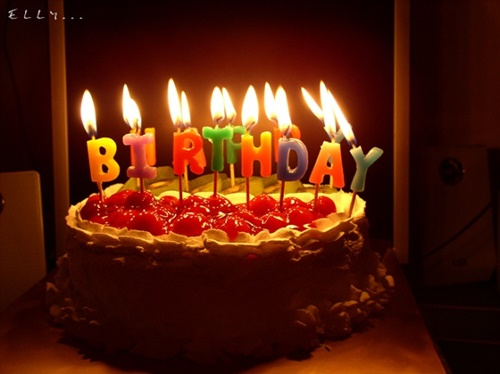
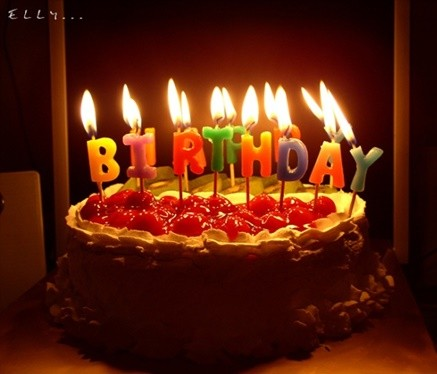
cmt12

diff --git a/game.js b/game.js
@@ -270,19 +270,28 @@ class Game {
         this.blowCakeBtn = document.getElementById('blow-cake-btn');
         this.cakeGrantedMsg = document.getElementById('cake-granted-msg');
         this.closeCakeBtn = document.getElementById('close-cake-btn');
+        this.candleAmbientGlow = document.getElementById('candle-ambient-glow');
+        this.screenFlashOverlay = document.getElementById('screen-flash-overlay');
 
         // Cấu hình các thẻ cho Màn Thổi Bánh Sinh Nhật (4 người ngồi đằng sau cái bánh)
         // Bố cục:
         // 0 1 0 1 0  -> Hàng 1: person2, person3
         // 1 0 0 0 1  -> Hàng 2: person1, person4
-        // 0 0 1 0 0  -> Hàng 3: cakeBefore (bánh ở giữa phía trước)
+        // 0 0 1 0 0  -> Hàng 3: cake (bánh ở giữa phía trước)
         this.cakeScreenConfig = {
-            person1: 'assets/card3.jpg',    // Người 1 (Hàng 2, Cột 1 - Ngoài cùng bên trái)
-            person2: 'assets/card4.jpg',    // Người 2 (Hàng 1, Cột 2 - Ở giữa bên trái)
-            person3: 'assets/card5.jpg',    // Người 3 (Hàng 1, Cột 4 - Ở giữa bên phải)
-            person4: 'assets/card6.jpg',    // Người 4 (Hàng 2, Cột 5 - Ngoài cùng bên phải)
-            cakeBefore: 'assets/card12.jpg', // Bánh sinh nhật LÚC CHƯA THỔI (Hàng 3, Cột 3)
-            cakeAfter: 'assets/card13.jpg'   // Bánh sinh nhật SAU KHI THỔI
+            // Trước khi thổi:
+            person1Before: 'assets/card3.jpg',    // Người 1 (Hàng 2, Cột 1 - Ngoài cùng bên trái)
+            person2Before: 'assets/card4.jpg',    // Người 2 (Hàng 1, Cột 2 - Ở giữa bên trái)
+            person3Before: 'assets/card5.jpg',    // Người 3 (Hàng 1, Cột 4 - Ở giữa bên phải)
+            person4Before: 'assets/card6.jpg',    // Người 4 (Hàng 2, Cột 5 - Ngoài cùng bên phải)
+            cakeBefore: 'assets/card12.jpg',      // Bánh sinh nhật LÚC CHƯA THỔI (Hàng 3, Cột 3)
+
+            // Sau khi thổi:
+            person1After: 'assets/card17.jpg',    // Người 1 đổi thành card17
+            person2After: 'assets/card15.jpg',    // Người 2 đổi thành card15
+            person3After: 'assets/card14.jpg',    // Người 3 đổi thành card14
+            person4After: 'assets/card18.jpg',    // Người 4 đổi thành card18
+            cakeAfter: 'assets/card13.jpg'        // Bánh sinh nhật đổi thành card13
         };
         this.cakeBlown = false;
 
@@ -1072,7 +1081,7 @@ class Game {
     openBirthdaySurprise() {
         if (!this.birthdayModal) return;
         this.victoryModal.classList.add('hidden');
-        this.birthdayModal.classList.remove('hidden');
+        this.birthdayModal.classList.remove('hidden', 'cake-step-active', 'cake-blown-dark');
 
         this._isUnwrapping = false;
 
@@ -1172,6 +1181,9 @@ class Game {
         if (this.bdayCardStep) this.bdayCardStep.classList.add('hidden');
         if (this.bdayCakeStep) {
             this.bdayCakeStep.classList.remove('hidden');
+            if (this.birthdayModal) {
+                this.birthdayModal.classList.add('cake-step-active');
+            }
             this.resetCakeStep();
         }
     }
@@ -1181,13 +1193,20 @@ class Game {
         if (this.cakeCenterFlame) {
             this.cakeCenterFlame.classList.remove('extinguished');
         }
+        if (this.candleAmbientGlow) {
+            this.candleAmbientGlow.classList.remove('extinguished');
+        }
+        if (this.birthdayModal) {
+            this.birthdayModal.classList.add('cake-step-active');
+            this.birthdayModal.classList.remove('cake-blown-dark');
+        }
         if (this.cakeImgCenter) {
             this.cakeImgCenter.src = this.cakeScreenConfig.cakeBefore;
             this.cakeImgCenter.style.opacity = '1';
             this.cakeImgCenter.style.transform = 'none';
         }
         if (this.blowCakeBtn) {
-            this.blowCakeBtn.textContent = 'push it';
+            this.blowCakeBtn.textContent = 'thổi nến';
             this.blowCakeBtn.style.display = 'inline-block';
         }
         if (this.cakeGrantedMsg) {
@@ -1198,10 +1217,10 @@ class Game {
         const imgP2 = document.getElementById('cake-img-p2');
         const imgP3 = document.getElementById('cake-img-p3');
         const imgP4 = document.getElementById('cake-img-p4');
-        if (imgP1) imgP1.src = this.cakeScreenConfig.person1;
-        if (imgP2) imgP2.src = this.cakeScreenConfig.person2;
-        if (imgP3) imgP3.src = this.cakeScreenConfig.person3;
-        if (imgP4) imgP4.src = this.cakeScreenConfig.person4;
+        if (imgP1) { imgP1.src = this.cakeScreenConfig.person1Before; imgP1.style.opacity = '1'; imgP1.style.transform = 'none'; }
+        if (imgP2) { imgP2.src = this.cakeScreenConfig.person2Before; imgP2.style.opacity = '1'; imgP2.style.transform = 'none'; }
+        if (imgP3) { imgP3.src = this.cakeScreenConfig.person3Before; imgP3.style.opacity = '1'; imgP3.style.transform = 'none'; }
+        if (imgP4) { imgP4.src = this.cakeScreenConfig.person4Before; imgP4.style.opacity = '1'; imgP4.style.transform = 'none'; }
     }
 
     blowCake() {
@@ -1211,32 +1230,61 @@ class Game {
         // Âm thanh thổi nến
         this.sound.playBlowCandle();
 
-        // Tắt ngọn lửa
+        // 1. Tắt ngọn lửa
         if (this.cakeCenterFlame) {
             this.cakeCenterFlame.classList.add('extinguished');
         }
 
-        // Đổi ảnh bánh sinh nhật sang ảnh mới với hiệu ứng lật mượt mà
-        if (this.cakeImgCenter) {
-            this.cakeImgCenter.style.transition = 'opacity 0.25s ease, transform 0.25s ease';
-            this.cakeImgCenter.style.opacity = '0';
-            this.cakeImgCenter.style.transform = 'scale(0.85) rotate(4deg)';
-
-            setTimeout(() => {
-                this.cakeImgCenter.src = this.cakeScreenConfig.cakeAfter;
-                this.cakeImgCenter.style.opacity = '1';
-                this.cakeImgCenter.style.transform = 'scale(1) rotate(0deg)';
-            }, 250);
+        // 2. Tắt vùng sáng tròn xung quanh bánh
+        if (this.candleAmbientGlow) {
+            this.candleAmbientGlow.classList.add('extinguished');
         }
+
+        // 3. Nháy màn một cái (screen flash) rồi chuyển về nền đen
+        if (this.screenFlashOverlay) {
+            this.screenFlashOverlay.classList.remove('flashing');
+            void this.screenFlashOverlay.offsetWidth;
+            this.screenFlashOverlay.classList.add('flashing');
+        }
+        if (this.birthdayModal) {
+            this.birthdayModal.classList.add('cake-blown-dark');
+        }
+
+        // Đổi ảnh tất cả các thẻ (4 người + 1 bánh) sang ảnh mới với hiệu ứng lật mượt mà
+        const cardsToSwap = [
+            { img: this.cakeImgCenter, newSrc: this.cakeScreenConfig.cakeAfter, rot: 4 },
+            { img: document.getElementById('cake-img-p1'), newSrc: this.cakeScreenConfig.person1After, rot: 3 },
+            { img: document.getElementById('cake-img-p2'), newSrc: this.cakeScreenConfig.person2After, rot: -3 },
+            { img: document.getElementById('cake-img-p3'), newSrc: this.cakeScreenConfig.person3After, rot: 3 },
+            { img: document.getElementById('cake-img-p4'), newSrc: this.cakeScreenConfig.person4After, rot: -3 }
+        ];
+
+        cardsToSwap.forEach(item => {
+            if (item.img) {
+                item.img.style.transition = 'opacity 0.25s ease, transform 0.25s ease';
+                item.img.style.opacity = '0';
+                item.img.style.transform = `scale(0.85) rotate(${item.rot}deg)`;
+            }
+        });
+
+        setTimeout(() => {
+            cardsToSwap.forEach(item => {
+                if (item.img) {
+                    item.img.src = item.newSrc;
+                    item.img.style.opacity = '1';
+                    item.img.style.transform = 'scale(1) rotate(0deg)';
+                }
+            });
+        }, 250);
 
         // Hiện thông điệp ước nguyện
         if (this.cakeGrantedMsg) {
             this.cakeGrantedMsg.classList.remove('hidden');
         }
 
-        // Đổi nút thành "Tiếp Tục 🎯" để người dùng bấm quay lại chơi
+        // Đổi nút thành "tiếp tục" để người dùng bấm quay lại chơi
         if (this.blowCakeBtn) {
-            this.blowCakeBtn.textContent = 'Tiếp Tục 🎯';
+            this.blowCakeBtn.textContent = 'tiếp tục';
         }
     }
 
@@ -1268,7 +1316,13 @@ class Game {
     }
 
     closeBirthdaySurprise() {
-        if (this.birthdayModal) this.birthdayModal.classList.add('hidden');
+        if (this.birthdayModal) {
+            this.birthdayModal.classList.add('hidden');
+            this.birthdayModal.classList.remove('cake-step-active', 'cake-blown-dark');
+        }
+        if (this.candleAmbientGlow) {
+            this.candleAmbientGlow.classList.remove('extinguished');
+        }
         if (this.victoryModal) this.victoryModal.classList.remove('hidden');
         if (this.typewriterTimer) {
             clearInterval(this.typewriterTimer);

diff --git a/style.css b/style.css
@@ -334,6 +334,43 @@ html, body {
     z-index: 100;
     overflow-y: auto;
     padding: 16px;
+    transition: background 0.45s ease;
+}
+
+/* Khi ở màn hình thổi bánh: nền đen huyền ảo làm nổi bật nến và bánh */
+#birthday-modal.cake-step-active {
+    background: #000000 !important;
+}
+
+/* Khi thổi tắt nến: giữ trọn vẹn nền đen tuyền */
+#birthday-modal.cake-blown-dark {
+    background: #000000 !important;
+}
+
+/* Lớp chớp nháy toàn màn hình (Screen flash) khi thổi nến */
+.screen-flash-overlay {
+    position: fixed;
+    inset: 0;
+    background: #ffffff;
+    opacity: 0;
+    pointer-events: none;
+    z-index: 9999;
+}
+
+.screen-flash-overlay.flashing {
+    animation: screenFlashAnim 0.38s ease-out forwards;
+}
+
+@keyframes screenFlashAnim {
+    0% {
+        opacity: 0;
+    }
+    18% {
+        opacity: 0.96;
+    }
+    100% {
+        opacity: 0;
+    }
 }
 
 .bday-decorations {
@@ -702,10 +739,42 @@ html, body {
     flex-direction: column;
     align-items: center;
     justify-content: center;
-    padding: 0;
+    padding: 16px 8px 52px 8px;
     margin: auto;
     width: auto;
     max-width: 100%;
+}
+
+/* Vùng sáng tròn ấm áp xung quanh bánh khi đang có nến */
+.candle-ambient-glow {
+    position: absolute;
+    top: 88%;
+    left: 50%;
+    transform: translate(-50%, -50%);
+    width: 440px;
+    height: 440px;
+    border-radius: 50%;
+    background: radial-gradient(circle, rgba(251, 191, 36, 0.44) 0%, rgba(245, 158, 11, 0.22) 34%, rgba(245, 158, 11, 0.08) 56%, transparent 75%);
+    pointer-events: none;
+    z-index: 0;
+    animation: candleAmbientPulse 1.8s ease-in-out infinite alternate;
+    transition: opacity 0.35s ease, transform 0.35s ease;
+}
+
+@keyframes candleAmbientPulse {
+    0% {
+        transform: translate(-50%, -50%) scale(0.95);
+        opacity: 0.88;
+    }
+    100% {
+        transform: translate(-50%, -50%) scale(1.05);
+        opacity: 1;
+    }
+}
+
+.candle-ambient-glow.extinguished {
+    opacity: 0 !important;
+    transform: translate(-50%, -50%) scale(0.3) !important;
 }
 
 /* Lưới 5 cột x 3 hàng đúng sơ đồ:
@@ -714,6 +783,8 @@ html, body {
    0 0 1 0 0  (Hàng 3: Bánh sinh nhật ở cột 3 phía trước)
 */
 .bday-cake-grid {
+    position: relative;
+    z-index: 1;
     display: grid;
     grid-template-columns: repeat(5, 58px);
     grid-template-rows: repeat(3, 80px);
@@ -772,15 +843,15 @@ html, body {
     transform: rotate(-5deg) translateY(-2px);
 }
 
-/* Thẻ bánh sinh nhật ở hàng 3, cột 3 (Phía trước ở giữa) */
+/* Thẻ bánh sinh nhật ở hàng 3, cột 3 (Kích thước gấp đôi chiều dài & chiều rộng: scale 2.0) */
 .cake-card-center {
     grid-column: 3;
     grid-row: 3;
-    transform: scale(1.35) translateY(-8px);
+    transform: scale(2.0) translateY(12px);
     z-index: 10;
     border: none !important;
     border-radius: 14px;
-    box-shadow: 0 10px 30px rgba(0, 0, 0, 0.85);
+    box-shadow: 0 12px 36px rgba(0, 0, 0, 0.9);
     cursor: pointer;
     overflow: visible;
 }
@@ -790,12 +861,12 @@ html, body {
 }
 
 .cake-card-center:hover {
-    transform: scale(1.42) translateY(-10px);
-    box-shadow: 0 12px 35px rgba(0, 0, 0, 0.95);
+    transform: scale(2.08) translateY(10px);
+    box-shadow: 0 16px 44px rgba(0, 0, 0, 0.95);
 }
 
 .cake-card-center:active {
-    transform: scale(1.28) translateY(-6px);
+    transform: scale(1.94) translateY(14px);
 }
 
 /* Ngọn nến lung linh trên thẻ bánh ở giữa */

diff --git a/index.html b/index.html
@@ -82,6 +82,9 @@
 
         <!-- Birthday Surprise Modal (Phương án A) -->
         <div id="birthday-modal" class="modal-overlay hidden">
+            <!-- Lớp chớp nháy toàn màn hình khi thổi nến -->
+            <div id="screen-flash-overlay" class="screen-flash-overlay"></div>
+
             <div id="bday-decorations" class="bday-decorations"></div>
 
             <!-- Step 1: Interactive 3D Gift Box -->
@@ -135,6 +138,9 @@
                 <div class="bday-cake-container">
                     <!-- Lưới 5 thẻ: 4 người ngồi đằng sau chiếc bánh (01010 / 10001 / 00100) -->
                     <div class="bday-cake-grid">
+                        <!-- Vùng sáng tròn ấm áp xung quanh bánh khi có nến -->
+                        <div id="candle-ambient-glow" class="candle-ambient-glow"></div>
+
                         <!-- Hàng 2, Cột 1: Người 1 (Ngoài cùng bên trái) -->
                         <div class="cake-card-wrapper cake-card-p1">
                             <img id="cake-img-p1" src="assets/card3.jpg" alt="Người 1" class="cake-grid-img">
